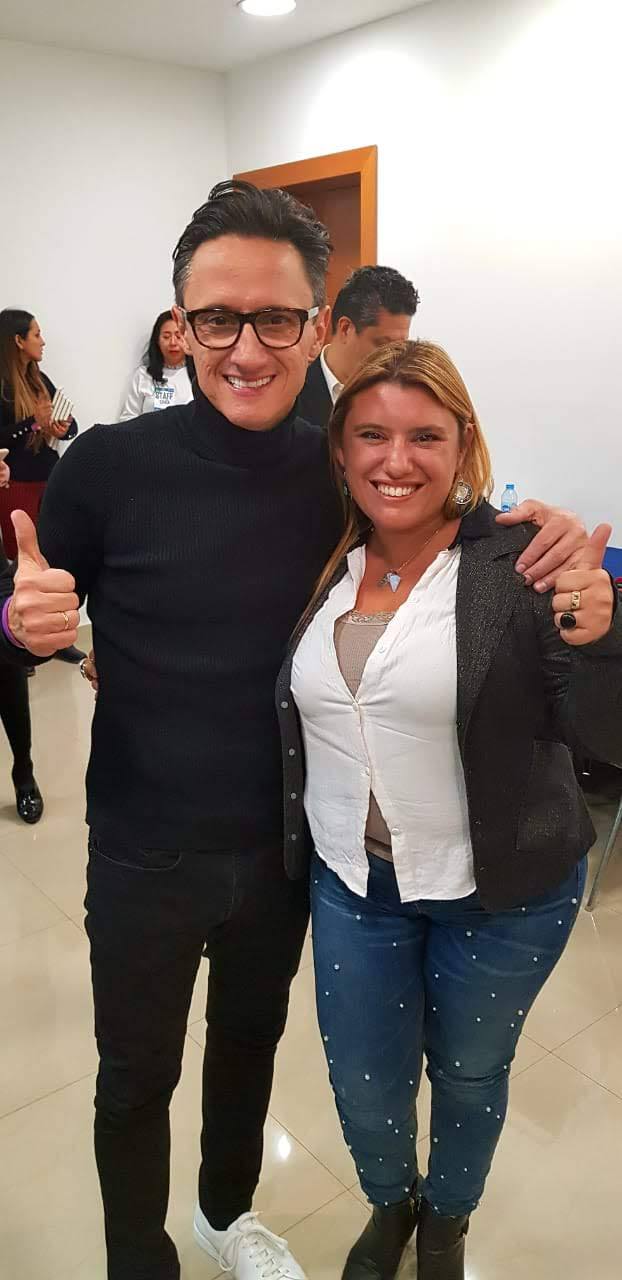
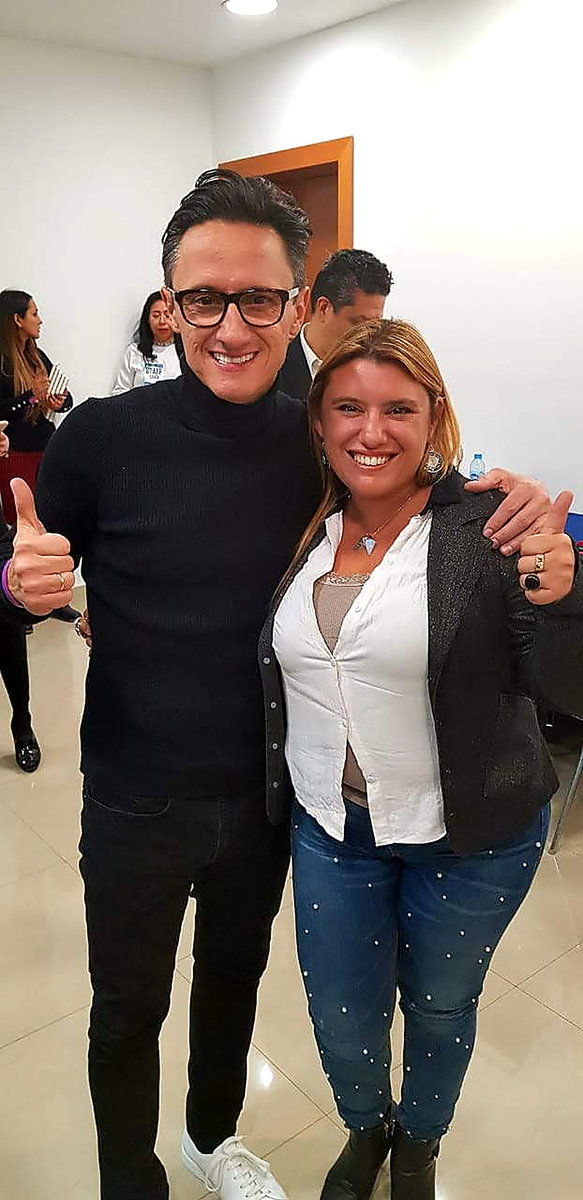
Comprimir las imagenes de personalidades
Las 5 fotos bajan a 1200px de lado largo (se muestran en rejillas de ~350px) y el flyer del workshop pasa de PNG a JPEG, que es el formato correcto para una imagen fotografica. En conjunto: 5475 KB -> 934 KB, 83% menos. Se actualiza la referencia del flyer en servicios.

diff --git a/servicios/index.html b/servicios/index.html
@@ -414,7 +414,7 @@ footer{background:var(--dark);border-top:1px solid rgba(42,250,210,.08);padding:
       <img src="/img/personalidades/mauricio-benoist-legendarios.jpg" alt="Leila con Mauricio Benoist — Personas Legendarias" style="object-position:center 40%" loading="lazy">
       <img src="/img/personalidades/titto-galvez.jpg" alt="Leila con Titto Gálvez" style="object-position:center 15%" loading="lazy">
       <img src="/img/personalidades/crucero-dreyfus-lozano.jpg" alt="Crucero con Diego Dreyfus y César Lozano" style="object-position:center 25%" loading="lazy">
-      <img src="/img/personalidades/workshop-cdmx-mau.png" alt="Workshop CDMX con Mauricio Benoist" style="object-position:center 30%" loading="lazy">
+      <img src="/img/personalidades/workshop-cdmx-mau.jpg" alt="Workshop CDMX con Mauricio Benoist" style="object-position:center 30%" loading="lazy">
     </div>
   </div>
 </section>
